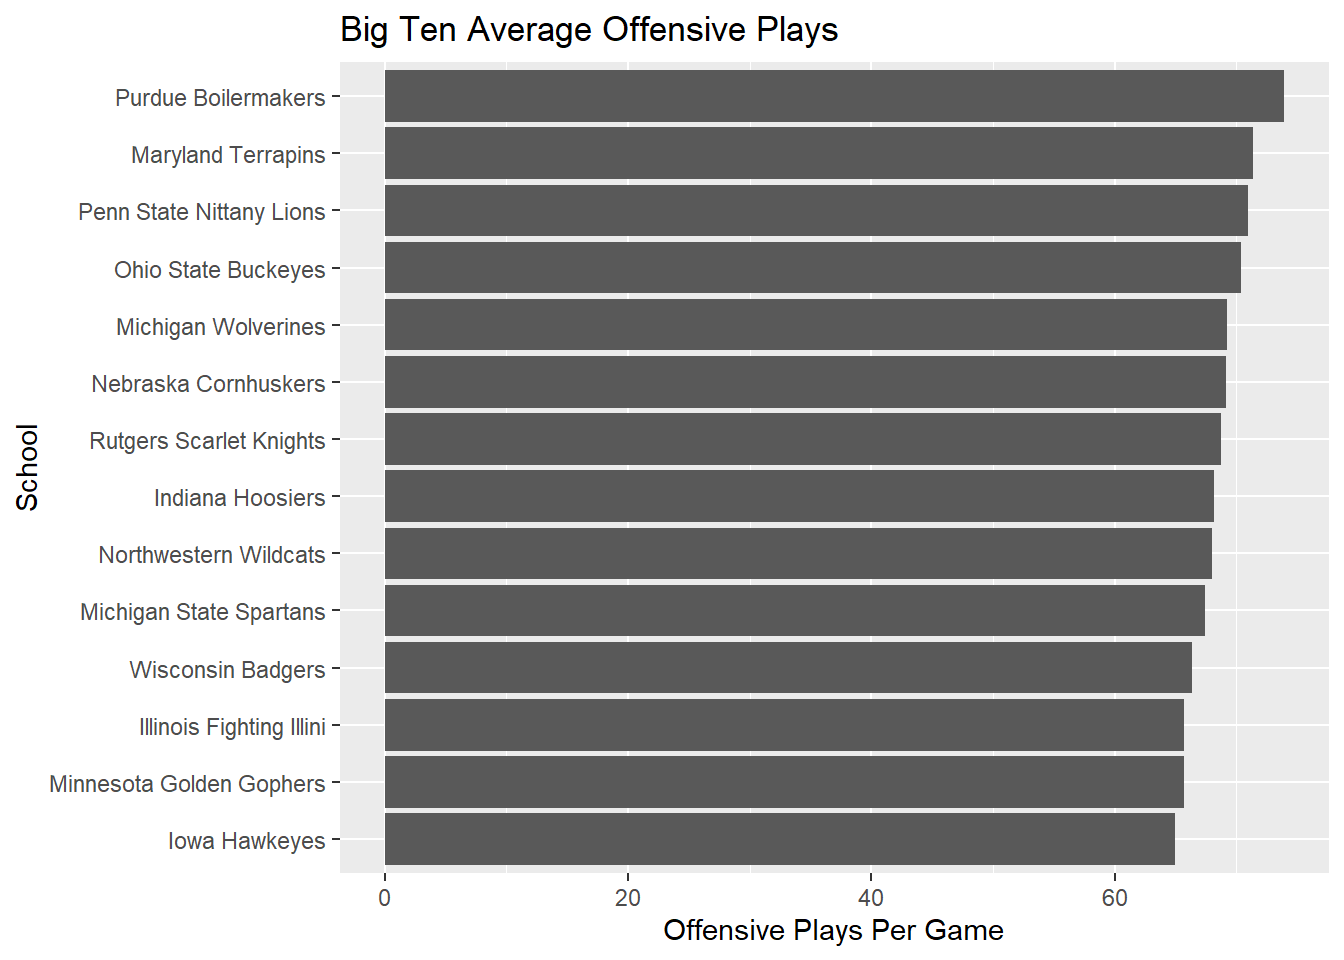
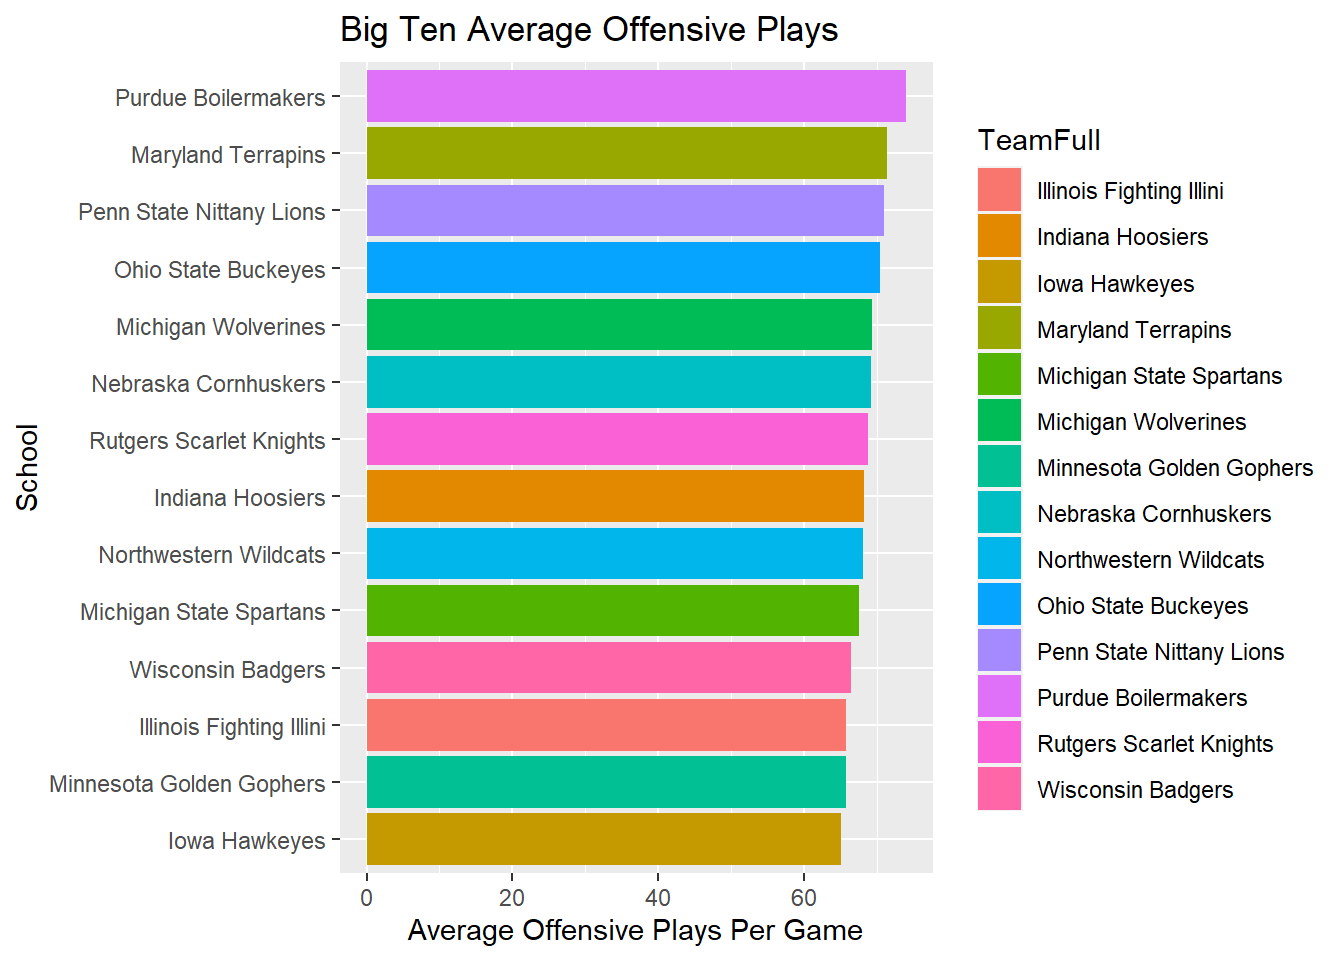
update pages

diff --git a/sportsdatablog/2022/10/11/big-ten-football-average-plays/index.html b/sportsdatablog/2022/10/11/big-ten-football-average-plays/index.html
@@ -157,13 +157,14 @@ cfb_mod</code></pre>
 <pre class="r"><code>ggplot() + 
   geom_bar(
     data=cfb_mod, 
-    aes (x=reorder(TeamFull, +`avg_plays`), weight=`avg_plays`)) +
+    aes (x=reorder(TeamFull, +`avg_plays`), fill=TeamFull, weight=`avg_plays`) ) +
+    geom_bar(stat = &quot;identity&quot;) +
     coord_flip() +
   
   labs(
     title=&quot;Big Ten Average Offensive Plays&quot;, 
-    y=&quot;Offensive Plays Per Game&quot;, 
-    x=&quot;School&quot;)</code></pre>
+    y=&quot;Average Offensive Plays Per Game&quot;, 
+    x=&quot;School&quot;) </code></pre>
 <p><img src="https://rinatorch.github.io/2022/10/11/big-ten-football-average-plays/index_files/figure-html/unnamed-chunk-4-1.png" width="672" />
 #Now, let’s read in 2022 data. We can see if things have changed since 2021.</p>
 <pre class="r"><code>cfb22 &lt;- read_csv(&quot;https://dwillis.github.io/sports-data-files/footballlogs22.csv&quot;)</code></pre>
@@ -224,17 +225,18 @@ cfb_mod22</code></pre>
 ## 13 Michigan State Spartans       61.2
 ## 14 Iowa Hawkeyes                 58.3</code></pre>
 <p>#Here, we can see Indiana ranks highest in average offensive plays. Purdue is now fourth. Maryland sank to fourth to last. Indiana and Northwestern are now in spots one and two respectively, so their opponents should bear in mind the offensive power they could see when they match up against these teams.</p>
-<p>#Maryland plays Northwestern and Indiana later this month. We should expect a strong offensive showing from these teams when they match up against the Terps. The Terps should expect and plan for how they might combat this.</p>
+<p>#Maryland plays Northwestern and Indiana later this month. We should expect a strong offensive showing from these teams when they match up against the Terps. The Terps should expect and plan for how they might combat this dominant offense.</p>
 <pre class="r"><code>ggplot() + 
   geom_bar(
     data=cfb_mod22, 
-    aes (x=reorder(TeamFull, +`avg_plays`), weight=`avg_plays`)) +
+    aes (x=reorder(TeamFull, +`avg_plays`), fill=TeamFull, weight=`avg_plays`) ) +
+    geom_bar(stat = &quot;identity&quot;) +
     coord_flip() +
   
   labs(
     title=&quot;Big Ten Average Offensive Plays&quot;, 
-    y=&quot;Offensive Plays Per Game&quot;, 
-    x=&quot;School&quot;)</code></pre>
+    y=&quot;Average Offensive Plays Per Game&quot;, 
+    x=&quot;School&quot;) </code></pre>
 <p><img src="https://rinatorch.github.io/2022/10/11/big-ten-football-average-plays/index_files/figure-html/unnamed-chunk-7-1.png" width="672" /></p>
 
     </div>
